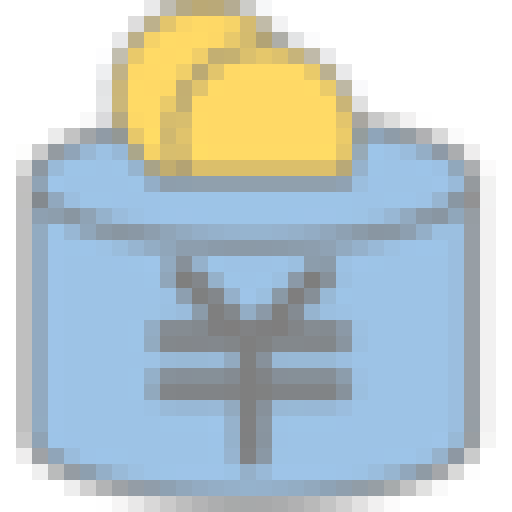
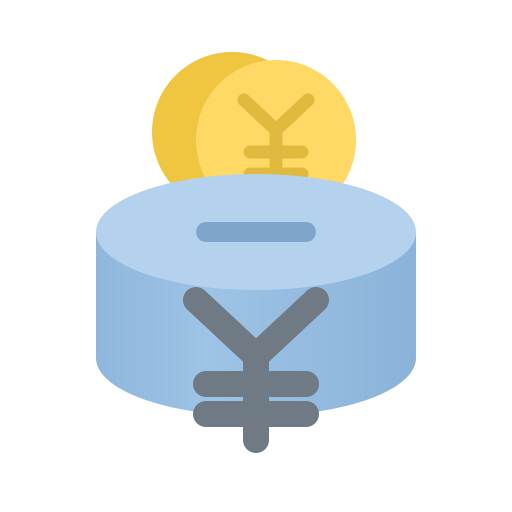
fix:(PWA): faviconなど調整してiOSでアプリ化する

diff --git a/src/features/setting/components/logout-cell.tsx b/src/features/setting/components/logout-cell.tsx
@@ -4,6 +4,7 @@ import { type ReactNode, useState, useTransition } from 'react';
 import { ListCellButton } from '@/components/list-cell';
 import { ConfirmAlert } from '@/components/ui/confirm-alert';
 import { logoutAction } from '@/features/auth/actions/logout-action';
+import { PAGE_CACHE } from '@/features/pwa/cache-names';
 
 // 設定「その他」末尾のログアウト行。
 //
@@ -22,8 +23,12 @@ export function LogoutCell({ leading }: { leading: ReactNode }) {
 
   // redirect を投げる Server Action。遷移で画面が離れるため戻り値は扱わず、
   // 確認は閉じずに処理中のまま遷移を待つ。
+  //
+  // 先にページキャッシュを捨てる。Cookie を消しても SW が保存した金額入りの HTML は
+  // 残り、次にオフラインで起動した人に前の利用者の画面が出てしまう。
   const logout = () => {
-    startTransition(() => {
+    startTransition(async () => {
+      await clearCachedPages();
       void logoutAction();
     });
   };
@@ -47,4 +52,15 @@ export function LogoutCell({ leading }: { leading: ReactNode }) {
       />
     </>
   );
+}
+
+async function clearCachedPages(): Promise<void> {
+  if (typeof window === 'undefined' || !('caches' in window)) {
+    return;
+  }
+  try {
+    await caches.delete(PAGE_CACHE);
+  } catch {
+    // キャッシュを消せなくてもログアウトは続行する。
+  }
 }

diff --git a/src/app/layout.tsx b/src/app/layout.tsx
@@ -26,7 +26,16 @@ const geistMono = Geist_Mono({
 
 export const metadata: Metadata = {
   title: 'かけよ',
-  description: '個人・ペア向けの家計簿アプリ'
+  description: '個人・ペア向けの家計簿アプリ',
+  // iOS Safari は manifest の display / name / icons を見ないため、「ホーム画面に
+  // 追加」で全画面起動させるには Apple 独自の meta が別途要る。
+  appleWebApp: {
+    capable: true,
+    title: 'かけよ',
+    // 'default' はステータスバーを塗らず下の theme-color を透かす。黒帯（'black'）
+    // や本文への被り（'black-translucent'）を避けるためこれを選ぶ。
+    statusBarStyle: 'default'
+  }
 };
 
 // OS の設定に応じたステータスバーの色。アプリ内での上書きは ThemeColorMeta が担う。

diff --git a/src/app/manifest.ts b/src/app/manifest.ts
@@ -5,9 +5,7 @@ import { THEME_COLOR } from '@/features/pwa/theme-color';
 // 要件はホーム画面追加・全画面表示（installable + standalone）。
 // オフラインキャッシュ（next-pwa/Workbox）は採用せず、依存を増やさない。
 //
-// icons: 192/512 の通常アイコンと maskable を用意。
-// TODO(icon): public/ の各 icon-*.png は 32x32 素材を拡大した暫定プレースホルダ。
-//             正式リリース前に高解像度のブランドアイコンへ差し替える。
+// icons の PNG は public/icon.svg から生成する（生成条件はそちらに書いてある）。
 export default function manifest(): MetadataRoute.Manifest {
   return {
     name: 'かけよ',

diff --git a/public/sw.js b/public/sw.js
@@ -24,6 +24,7 @@
 //                          オフライン時はそのまま失敗させる（UI 側でトースト表示）。
 
 const STATIC_CACHE = 'kakeyo-static-v1';
+// ログアウト時にアプリ側からも消すため、src/features/pwa/cache-names.ts と同じ名前にする。
 const PAGE_CACHE = 'kakeyo-pages-v1';
 const CURRENT_CACHES = [STATIC_CACHE, PAGE_CACHE];
 

diff --git a/src/features/pwa/cache-names.ts b/src/features/pwa/cache-names.ts
@@ -1,0 +1,4 @@
+// SW のキャッシュ名。public/sw.js はビルド対象外の素の JS でこの定数を import
+// できないため、同じ文字列が両方にある。片方だけ変えるとログアウト時に消す対象と
+// SW が使う領域がずれ、古い画面が残る。
+export const PAGE_CACHE = 'kakeyo-pages-v1';
